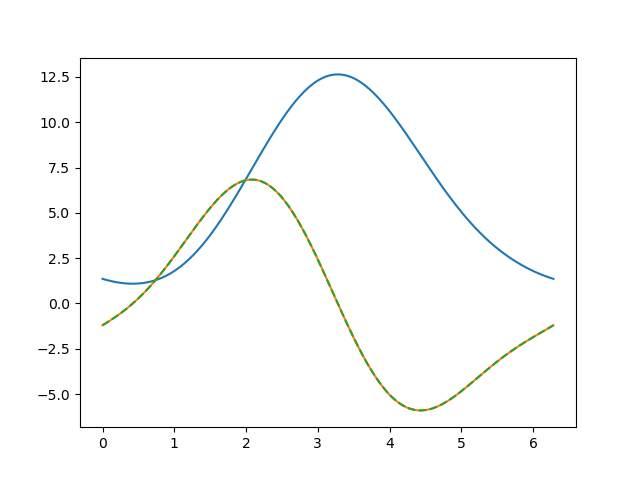
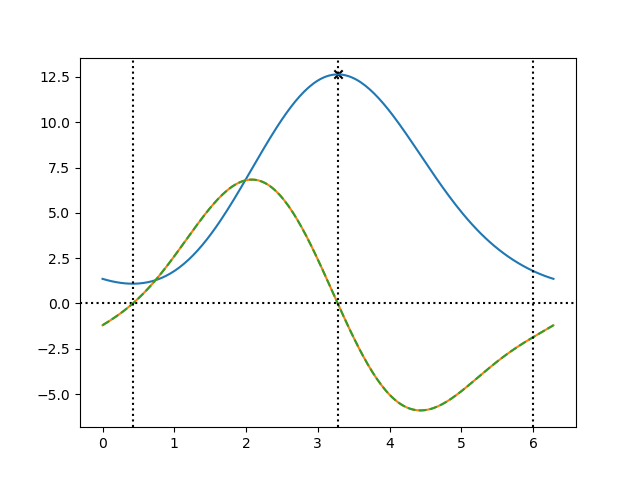
global sdf

Changed region(s): [[0.5, 0.125, 0.5312, 0.1875], [0.8125, 0.625, 0.8438, 0.6562], [0.1875, 0.625, 0.2188, 0.6562]]

diff --git a/phi_evp.py b/phi_evp.py
@@ -85,7 +85,7 @@ def construct_phi(a, delta, dist, coords, bases):
     # plt.scatter(dists*np.cos(thetas_adj), dists*np.sin(thetas_adj))
 
     # plt.axvline(x=np.arctan(1/2)) 
-    # plt.axhline(y=0) 
+    plt.axhline(y=0, linestyle=':', color='black') 
 
     sin_coeff_trunc = []
     cos_coeff_trunc = []
@@ -104,8 +104,7 @@ def construct_phi(a, delta, dist, coords, bases):
 
 
     # plt.show()
-    plt.savefig('dist_prime.png')
-    plt.close()
+
 
     # https://math.stackexchange.com/questions/370996/roots-of-a-finite-fourier-series
     # computing the roots of the distance function's derivative to find extrema (this can be done explicitly)
@@ -138,6 +137,26 @@ def construct_phi(a, delta, dist, coords, bases):
         recon += cos_c * np.cos((i+1) * roots)
     print(recon)
 
+    rrs = []
+    for root in roots:
+        if root.imag < 1e-8:
+            rr = root.real
+            if rr < 0:
+                rr += 2*np.pi
+            rrs.append(rr)
+            plt.axvline(x=rr, linestyle=':', color='black')
+
+    rrs = np.array(rrs)
+    root_dists = np.zeros_like(rrs, dtype=np.complex128)
+    for k, a_k in zip(ks, a):
+        root_dists += a_k * np.exp(1j*k*rrs)
+
+    rootdmagsq = (root_dists * root_dists.conj()).real
+    max_ind = np.argmax(rootdmagsq)
+    plt.scatter([rrs[max_ind]], rootdmagsq[max_ind], marker='x', color='black')
+
+    plt.savefig('dist_prime.png')
+    plt.close()
     # print(roots)
     sys.exit()
 
